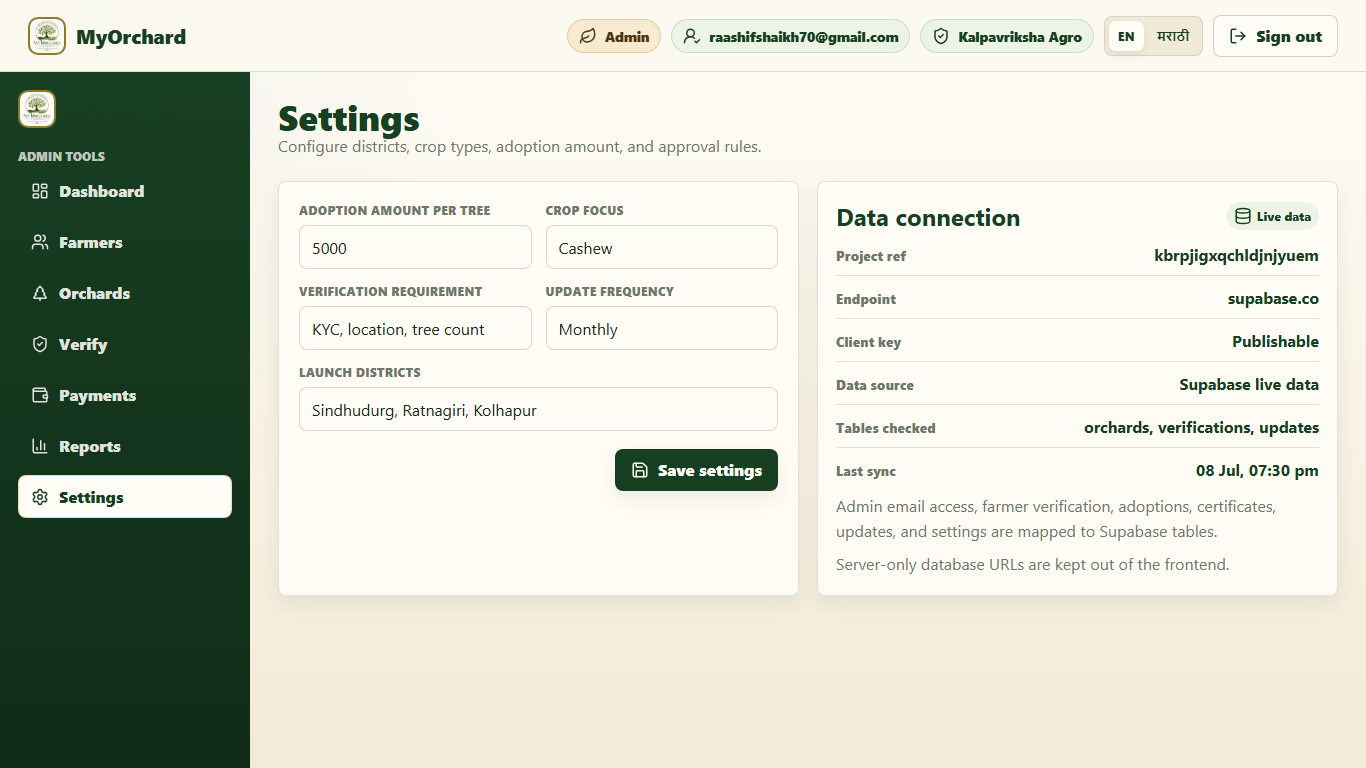
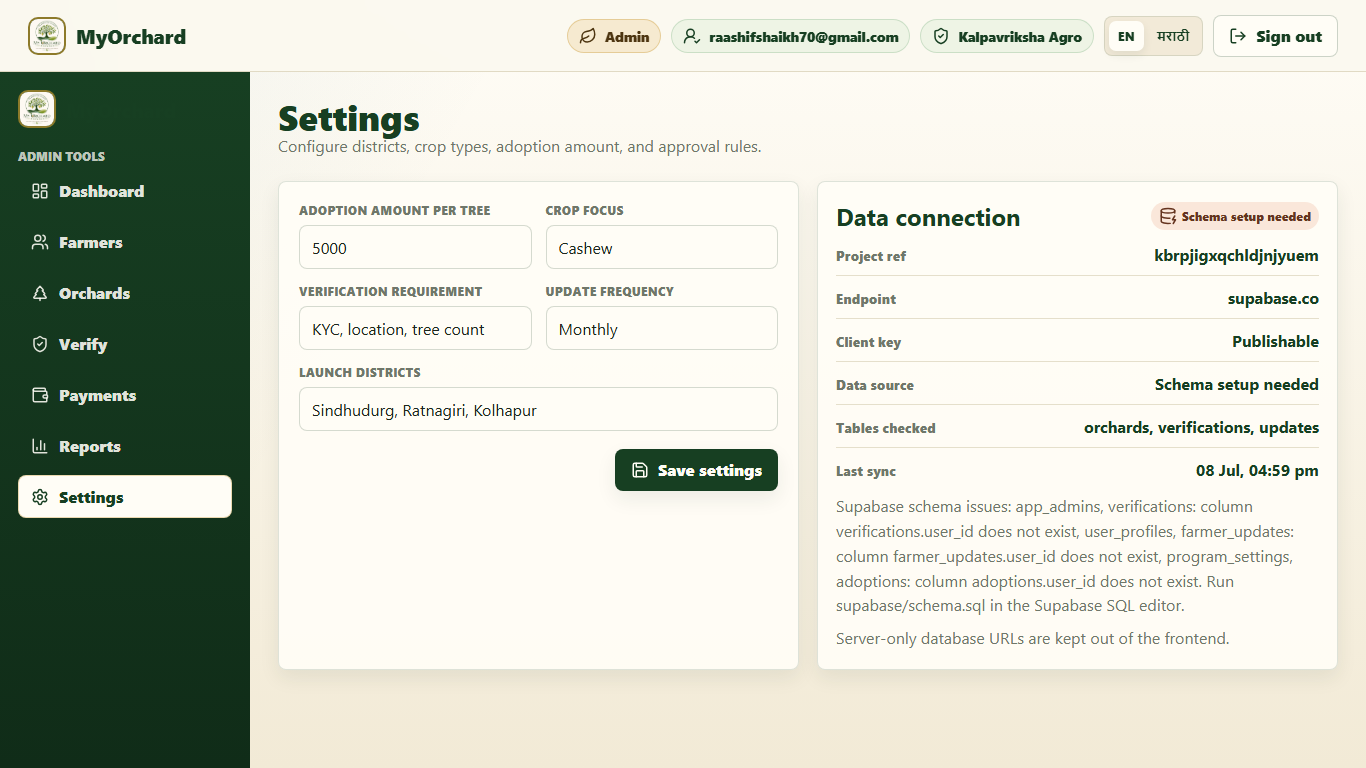
Add UI contract QA check

diff --git a/README.md b/README.md
@@ -41,3 +41,11 @@ node tools/check-supabase-readiness.cjs
 ```
 
 The checker reports missing tables and missing columns, so it is safe to run before and after applying the SQL.
+
+You can also verify the frontend control contract:
+
+```bash
+node tools/check-ui-contract.cjs
+```
+
+That check fails if a rendered `data-action` button has no click handler, an export button has no CSV path, the admin email is not present in both the frontend and Supabase seed, Marathi language persistence is missing, or production-facing files contain fixture markers.